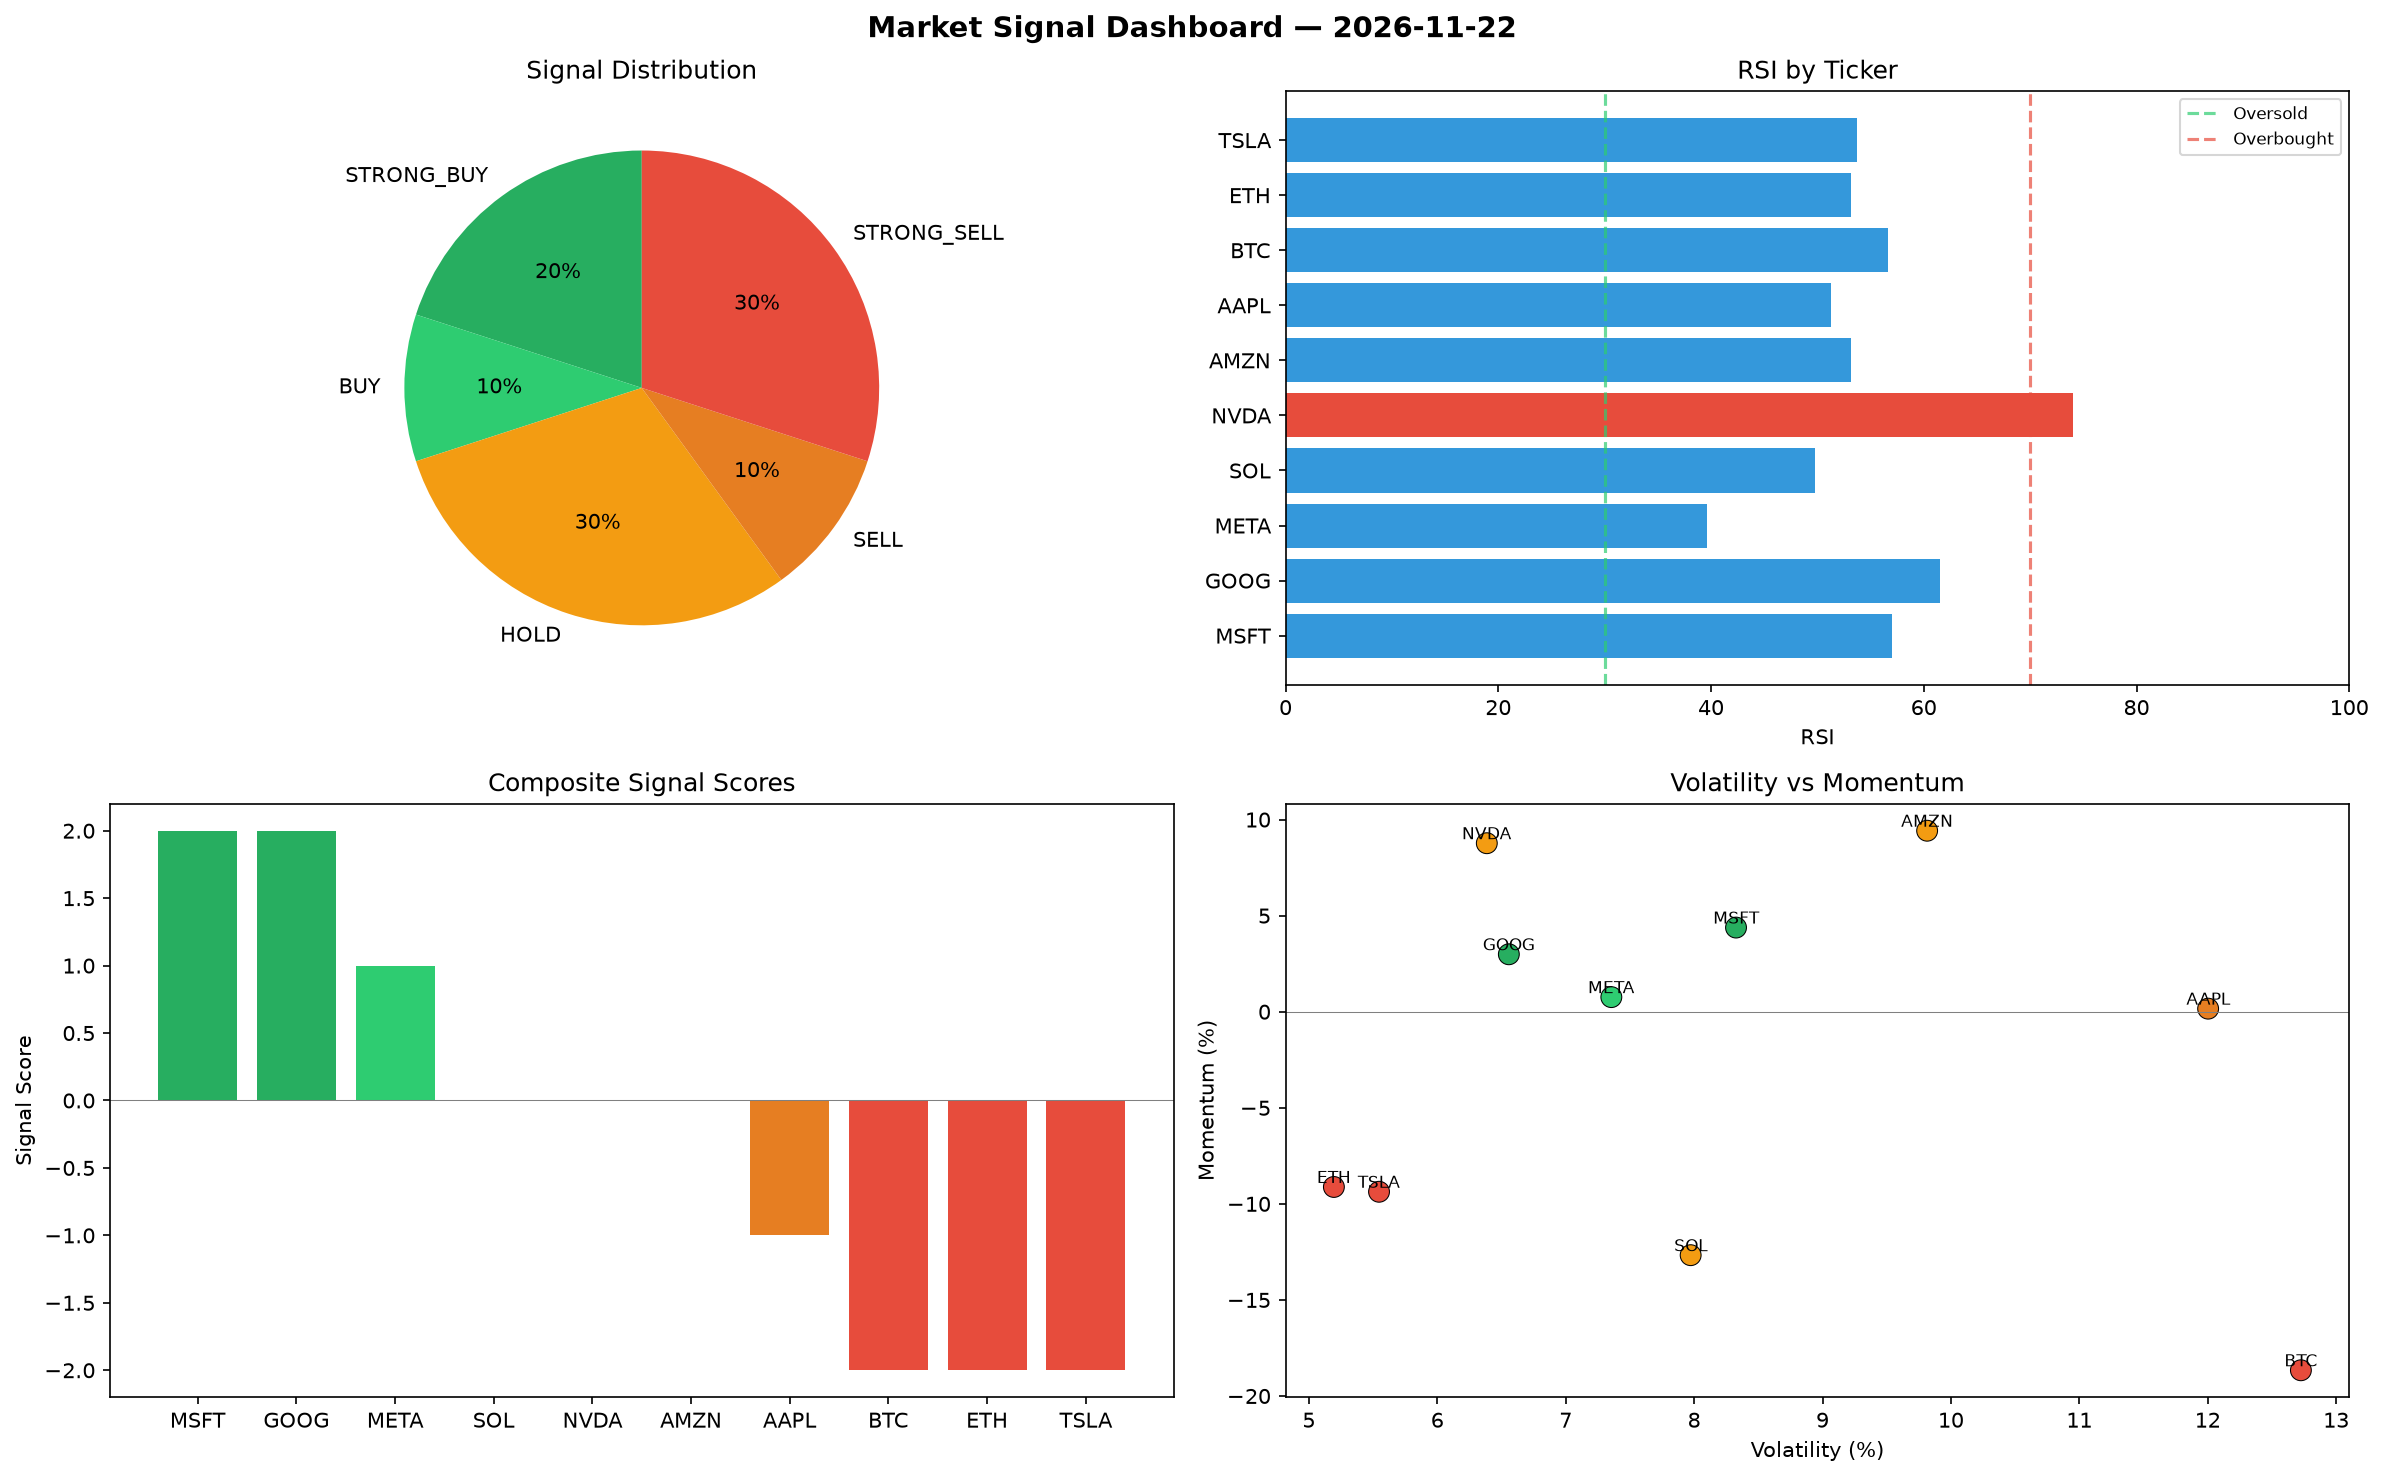
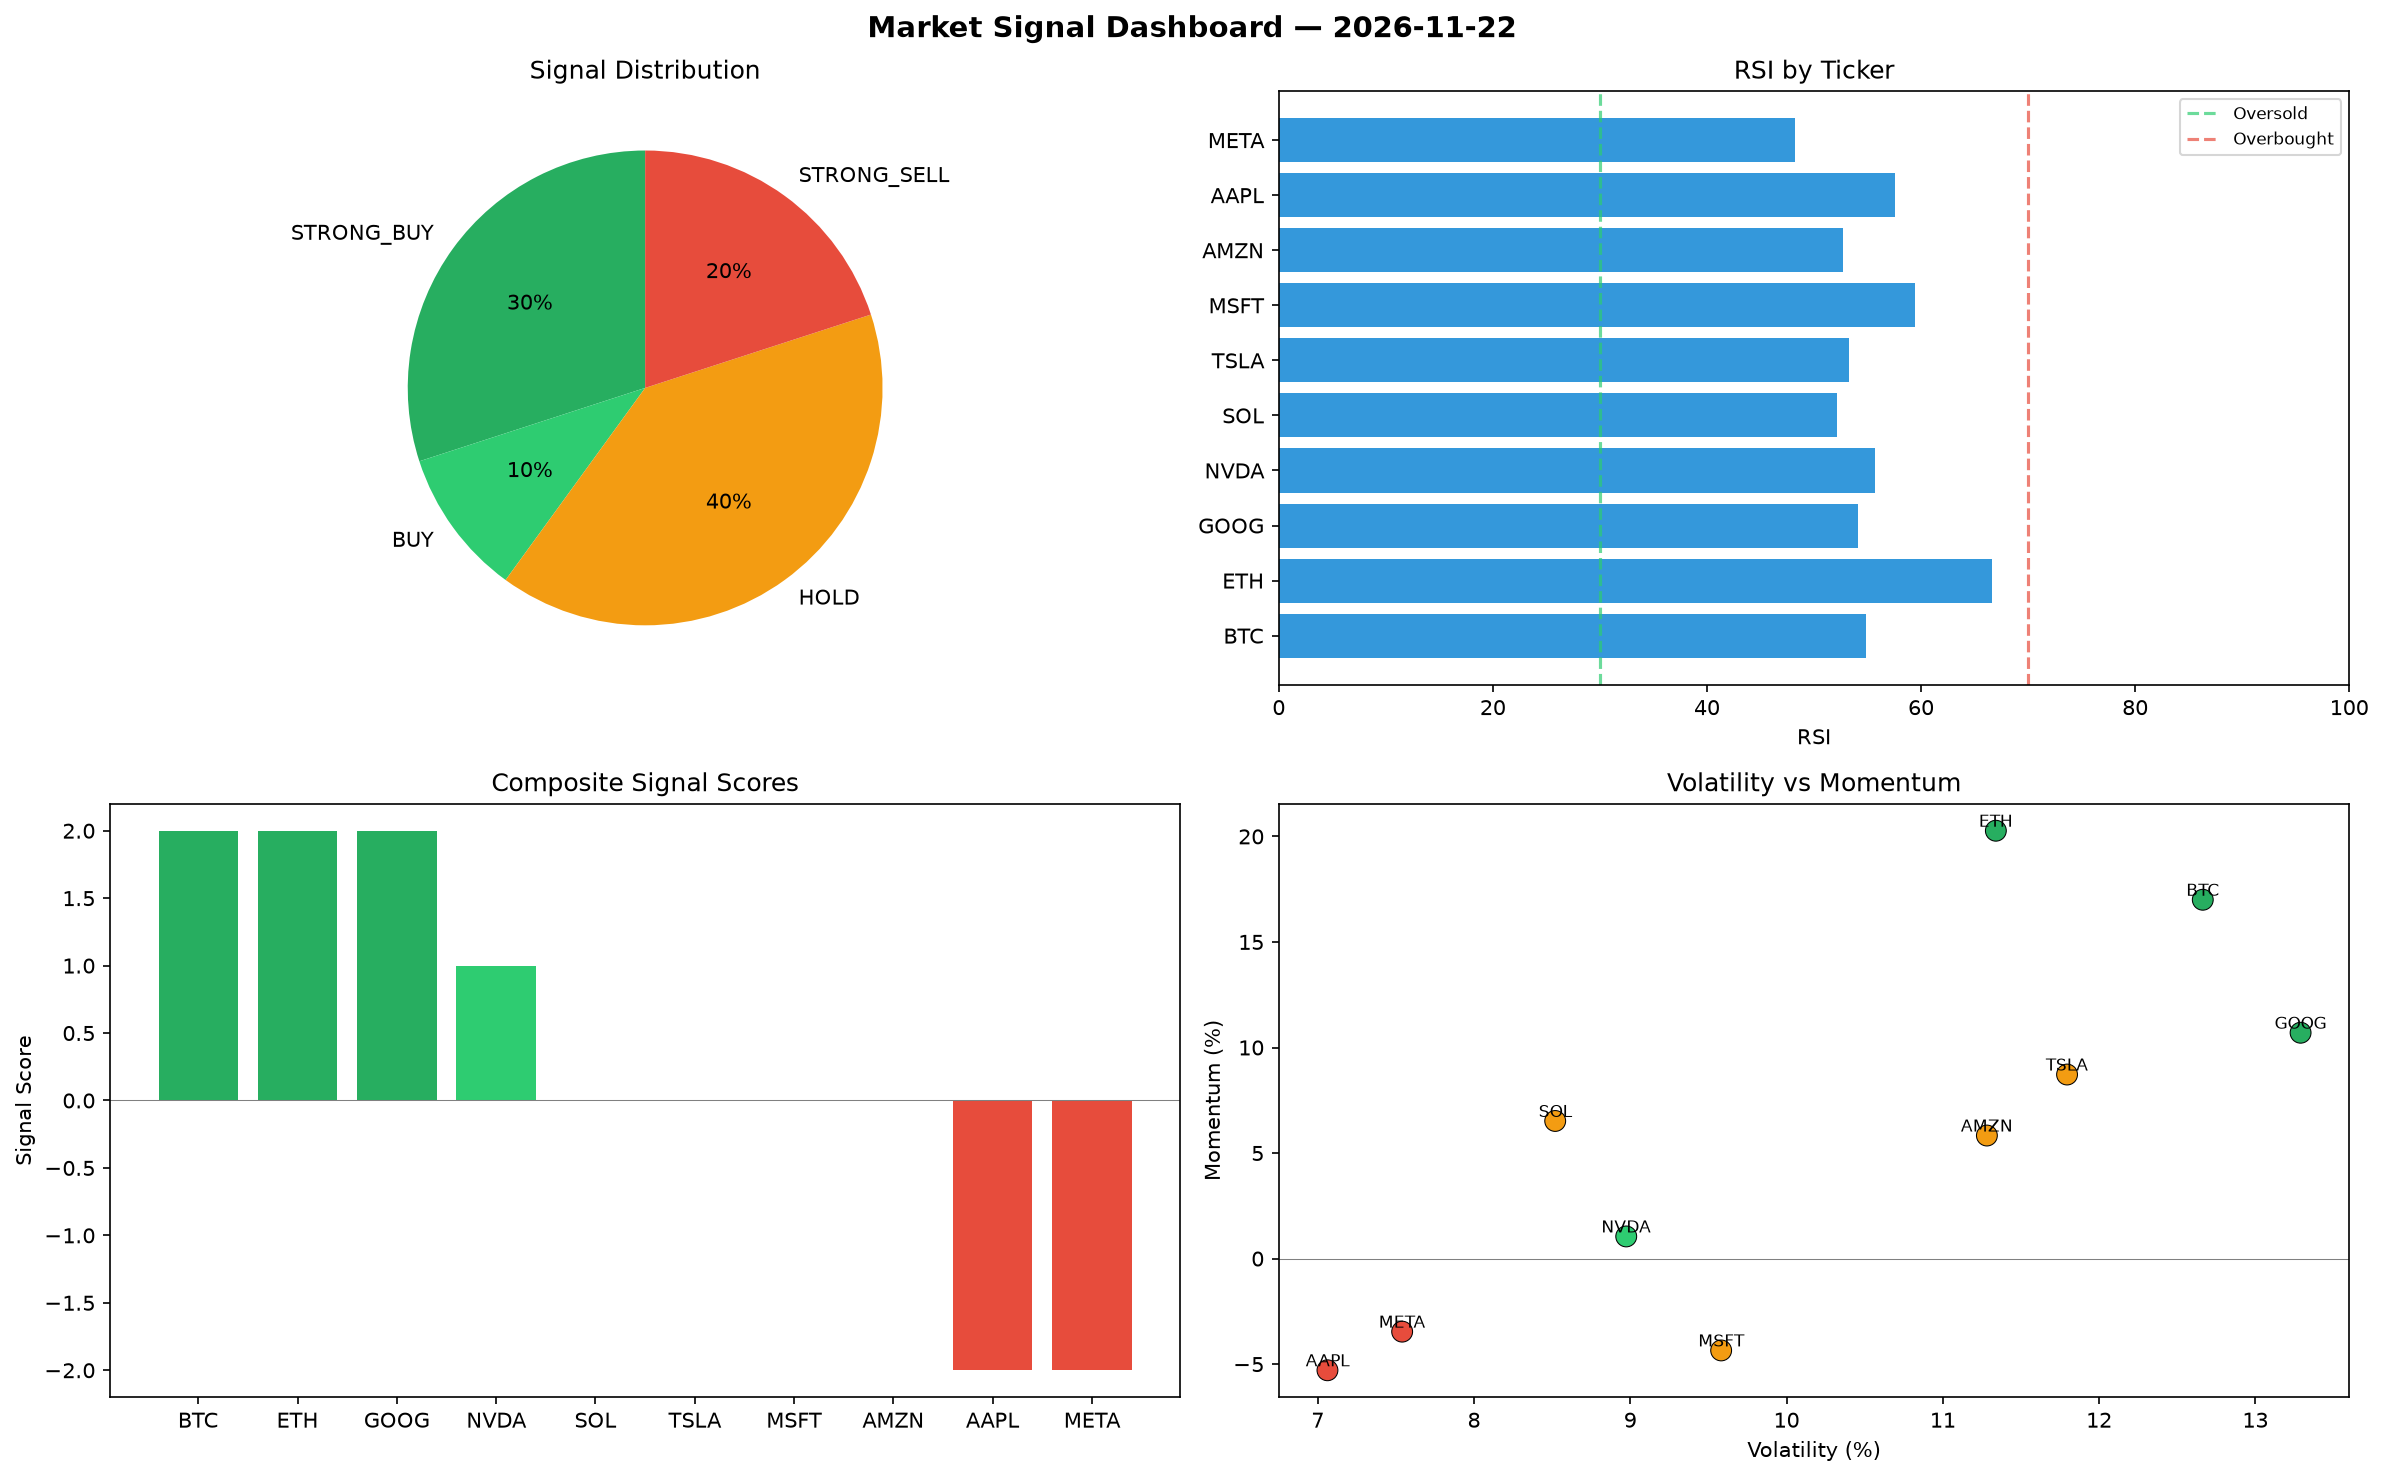
automated-bots: market signals 2026-11-22T20:47

diff --git a/logs/2026-11-22.md b/logs/2026-11-22.md
@@ -1,6 +1,6 @@
 # Market Signal Report — 2026-11-22
 
-**Run ID:** `d7d28264f3` | **Buy:** 3 | **Sell:** 4 | **Hold:** 3
+**Run ID:** `e4b6625212` | **Buy:** 4 | **Sell:** 2 | **Hold:** 4
 
 ![Dashboard](2026-11-22_dashboard.png)
 
@@ -8,28 +8,28 @@
 
 | Ticker | Price | Signal | Score | RSI | Momentum | Confidence |
 |--------|-------|--------|-------|-----|----------|------------|
-| MSFT | $4659.46 | **STRONG_BUY** | 2 | 57.02 | 0.0438 | 0.5 |
-| GOOG | $4067.2 | **STRONG_BUY** | 2 | 61.53 | 0.0299 | 0.5 |
-| META | $936.04 | **BUY** | 1 | 39.58 | 0.0076 | 0.25 |
-| SOL | $743.87 | **HOLD** | 0 | 49.8 | -0.1267 | 0.0 |
-| NVDA | $110.28 | **HOLD** | 0 | 74.05 | 0.0877 | 0.0 |
-| AMZN | $1615.85 | **HOLD** | 0 | 53.15 | 0.0942 | 0.0 |
-| AAPL | $2372.37 | **SELL** | -1 | 51.3 | 0.0016 | 0.25 |
-| BTC | $413.55 | **STRONG_SELL** | -2 | 56.62 | -0.1866 | 0.5 |
-| ETH | $3874.5 | **STRONG_SELL** | -2 | 53.19 | -0.0912 | 0.5 |
-| TSLA | $707.54 | **STRONG_SELL** | -2 | 53.75 | -0.0937 | 0.5 |
+| BTC | $4159.06 | **STRONG_BUY** | 2 | 54.87 | 0.17 | 0.5 |
+| ETH | $4235.8 | **STRONG_BUY** | 2 | 66.6 | 0.2027 | 0.5 |
+| GOOG | $1254.94 | **STRONG_BUY** | 2 | 54.11 | 0.107 | 0.5 |
+| NVDA | $3146.34 | **BUY** | 1 | 55.7 | 0.0105 | 0.25 |
+| SOL | $2337.57 | **HOLD** | 0 | 52.16 | 0.0652 | 0.0 |
+| TSLA | $2985.36 | **HOLD** | 0 | 53.26 | 0.0872 | 0.0 |
+| MSFT | $3389.5 | **HOLD** | 0 | 59.4 | -0.0435 | 0.0 |
+| AMZN | $2876.23 | **HOLD** | 0 | 52.75 | 0.0583 | 0.0 |
+| AAPL | $2437.42 | **STRONG_SELL** | -2 | 57.55 | -0.0529 | 0.5 |
+| META | $3250.17 | **STRONG_SELL** | -2 | 48.25 | -0.0346 | 0.5 |
 
 ## Delta vs Yesterday
 
 | Ticker | Today | Yesterday | Price Change | Signal Changed |
 |--------|-------|-----------|-------------|----------------|
-| MSFT | STRONG_BUY | STRONG_BUY | 📉 -9.24% | — |
-| GOOG | STRONG_BUY | STRONG_SELL | 📈 369.96% | ⚠ YES |
-| META | BUY | STRONG_BUY | 📉 -53.64% | ⚠ YES |
-| SOL | HOLD | HOLD | 📈 1755.04% | — |
-| NVDA | HOLD | STRONG_BUY | 📉 -95.72% | ⚠ YES |
-| AMZN | HOLD | SELL | 📉 -63.2% | ⚠ YES |
-| AAPL | SELL | HOLD | 📈 64.5% | ⚠ YES |
-| BTC | STRONG_SELL | BUY | 📉 -78.8% | ⚠ YES |
-| ETH | STRONG_SELL | SELL | 📈 163.72% | ⚠ YES |
-| TSLA | STRONG_SELL | SELL | 📉 -66.2% | ⚠ YES |
+| BTC | STRONG_BUY | BUY | 📈 113.25% | ⚠ YES |
+| ETH | STRONG_BUY | SELL | 📈 188.31% | ⚠ YES |
+| GOOG | STRONG_BUY | STRONG_SELL | 📈 45.01% | ⚠ YES |
+| NVDA | BUY | STRONG_BUY | 📈 22.01% | ⚠ YES |
+| SOL | HOLD | HOLD | 📈 5729.35% | — |
+| TSLA | HOLD | SELL | 📈 42.59% | ⚠ YES |
+| MSFT | HOLD | STRONG_BUY | 📉 -33.97% | ⚠ YES |
+| AMZN | HOLD | SELL | 📉 -34.49% | ⚠ YES |
+| AAPL | STRONG_SELL | HOLD | 📈 69.01% | ⚠ YES |
+| META | STRONG_SELL | STRONG_BUY | 📈 60.99% | ⚠ YES |
